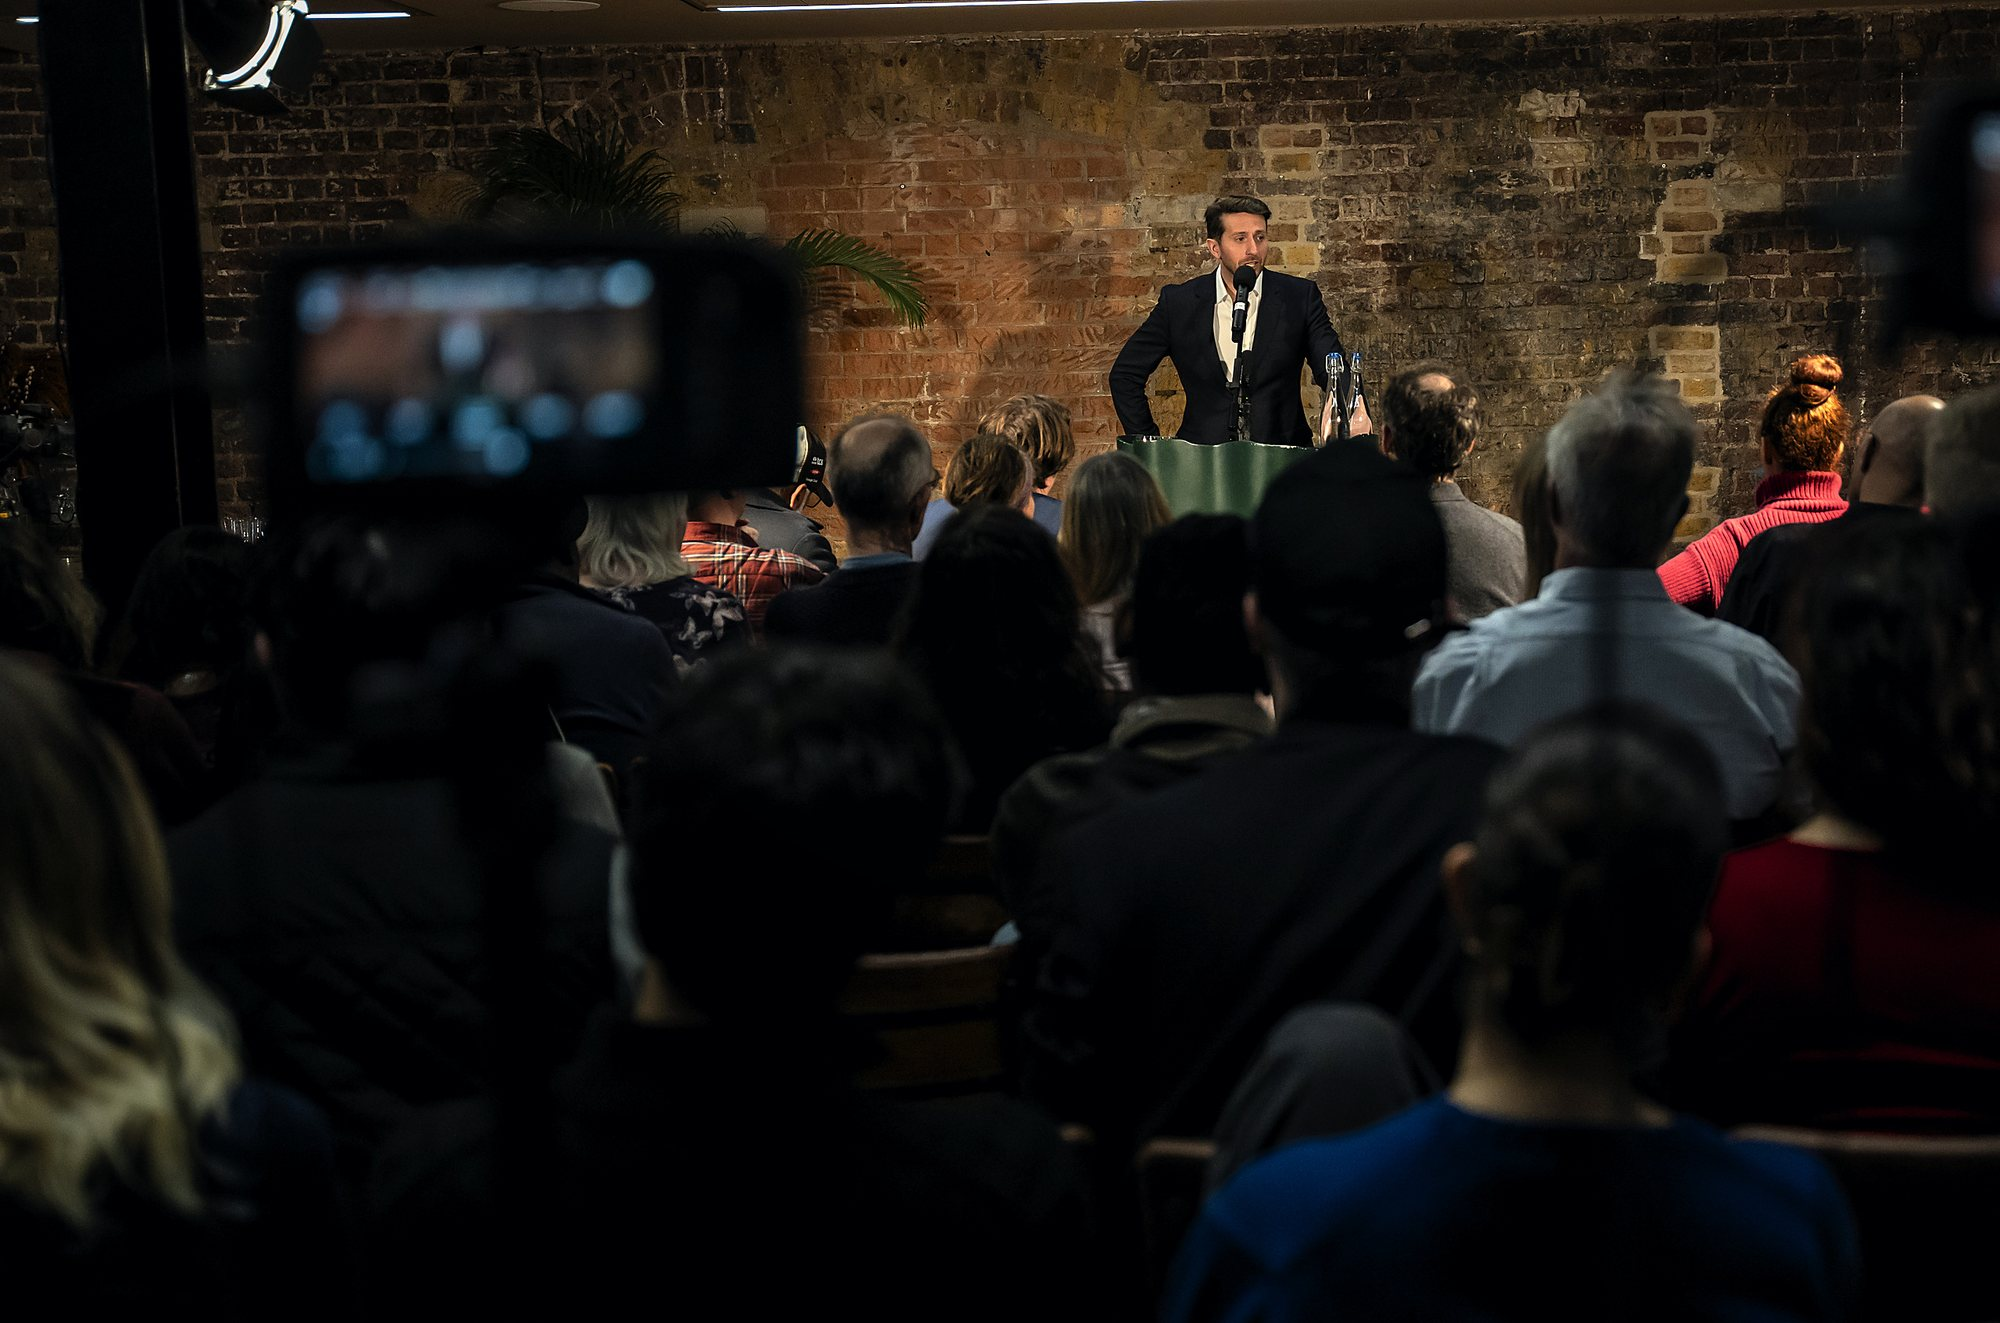
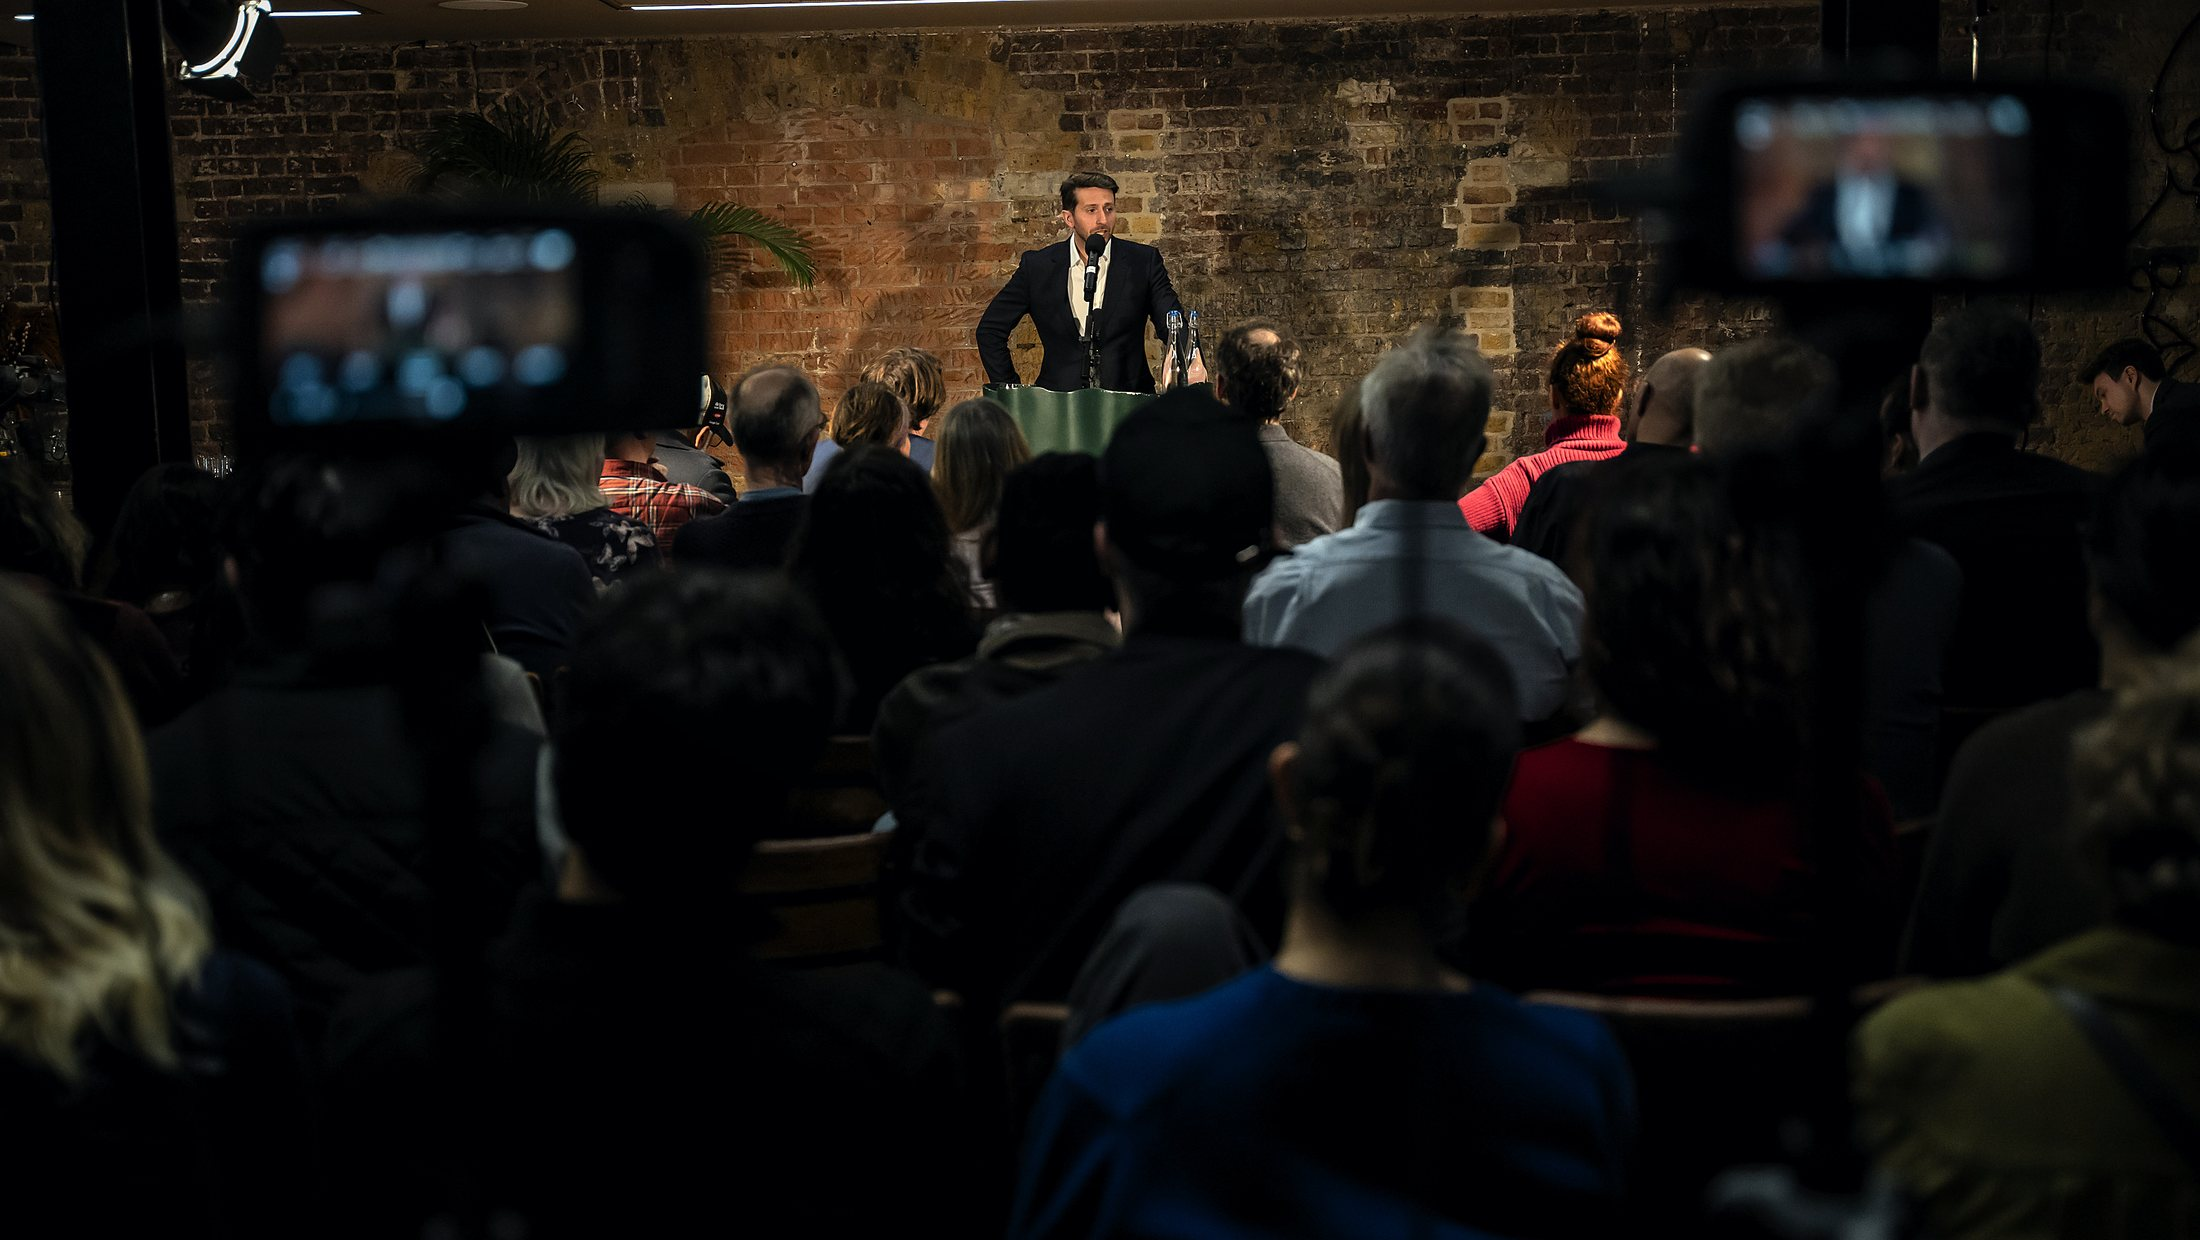
Testimonials run along the bottom, contact box drops to the foot, photographs pulls out
Testimonials: on wide screens the quotes leave the panel and run right to left in
a strip across the bottom shadow, at the same 36 pixels a second the column used,
paused on hover. The panel keeps only the title, the back button and the intro
line, so the laughing audience is left visible. Phones keep the vertical wall.

Contact: the box sits at the foot of the page, wider, on the same bottom line as
the newsletter box, so the interview photograph is no longer covered.

Photographs: full frame restored so the cameras in the foreground are in shot.

diff --git a/index.html b/index.html
@@ -55,6 +55,8 @@
   .phead{display:block;font-size:14.5px;color:#fff;line-height:1.5}
   .prow:hover .phead{color:var(--gold)}
   @media(max-width:720px){.presspanel{left:22px;right:22px;width:auto;max-width:none}}
+  /* contact: drop the box to the foot of the page so the interview photograph is not covered */
+  @media(min-width:901px){body.lp-contact .presspanel{top:auto;bottom:54px;transform:none;width:54%;max-width:720px;max-height:none}}
   .photo-note{position:absolute;right:16px;bottom:14px;z-index:5;font-size:10.5px;letter-spacing:.1em;text-transform:uppercase;color:rgba(255,255,255,.32)}
   /* header */
   header{position:absolute;top:0;left:0;right:0;z-index:10;display:flex;align-items:center;justify-content:space-between;padding:20px 56px;pointer-events:none;background:rgba(3,4,7,.94);border-bottom:1px solid rgba(255,255,255,.07)}
@@ -221,6 +223,16 @@
 @media(max-width:900px){.mjb-sqcol:nth-child(3){display:none}}
 @media(max-width:600px){.mjb-sq{gap:0}.mjb-sqcol:nth-child(2){display:none}.mjb-sqcol{max-width:none}}
 @media(prefers-reduced-motion:reduce){.mjb-sqcolinner{animation:none}}
+  /* wide screens: the quotes run along the bottom shadow instead of stacking up the page */
+  #tq-strip{position:fixed;left:0;right:0;bottom:56px;height:150px;z-index:8;overflow:hidden;display:flex;align-items:flex-end;pointer-events:none;-webkit-mask-image:linear-gradient(to right,transparent 0,#000 7%,#000 93%,transparent 100%);mask-image:linear-gradient(to right,transparent 0,#000 7%,#000 93%,transparent 100%)}
+  #tq-strip .tq-row{display:flex;gap:14px;will-change:transform;animation:tqRun linear infinite;pointer-events:auto}
+  #tq-strip:hover .tq-row{animation-play-state:paused}
+  @keyframes tqRun{from{transform:translateX(0)}to{transform:translateX(-50%)}}
+  .tq-card{flex:0 0 300px;background:rgba(255,255,255,.05);border:1px solid rgba(255,255,255,.10);border-radius:2px;padding:12px 14px;transition:background .25s ease,border-color .25s ease}
+  .tq-card:hover{background:rgba(255,255,255,.09);border-color:rgba(255,255,255,.2)}
+  .tq-card p{font-size:13.5px;line-height:1.55;color:rgba(255,255,255,.85);margin:0 0 6px;display:-webkit-box;-webkit-line-clamp:3;-webkit-box-orient:vertical;overflow:hidden}
+  .tq-name{font-size:11.5px;letter-spacing:.05em;color:var(--gold)}
+  @media(max-width:900px){#tq-strip{display:none}}
 nav a.nav-cta{background:#fff;color:#05070C;padding:10px 20px;border-radius:2px;font-weight:600;opacity:1;letter-spacing:.16em;box-shadow:none;transition:transform .2s ease,background .2s ease}
 nav a.nav-cta:hover{color:#05070C;opacity:1;transform:translateY(-2px);background:rgba(255,255,255,.86)}
 </style>
@@ -544,6 +556,7 @@ var PATH_TO_KIND={ '/biography':'bio', '/testimonials':'testimonials', '/photogr
 window.PATH_TO_KIND=PATH_TO_KIND;
 function openLeft(kind, fromRoute){
   var cfg=LEFT[kind]; if(!cfg) return;
+  try{ tqStripKill(); }catch(e){}
   try{ document.body.classList.add('lp-open');
        document.body.classList.toggle('lp-contact', kind==='contact'); }catch(e){}
   var panel=document.getElementById('leftpanel'), cov=document.querySelector('.covered'), body=document.getElementById('leftBody');
@@ -554,6 +567,7 @@ function openLeft(kind, fromRoute){
   if(!fromRoute){ try{ history.pushState({kind:kind}, '', PATHS[kind]||'/'); }catch(e){} }
 }
 function closeLeft(fromRoute){
+  try{ tqStripKill(); }catch(e){}
   try{ document.body.classList.remove('lp-open'); document.body.classList.remove('lp-contact'); }catch(e){}
   document.getElementById('leftpanel').classList.remove('open');
   document.querySelector('.covered').style.display='';
@@ -568,6 +582,23 @@ document.querySelectorAll('.modal').forEach(function(m){m.addEventListener('clic
 document.addEventListener('keydown',function(e){if(e.key==='Escape'){closeM();closeLeft();}});
 routeFromPath();
 
+function tqStripKill(){ var el=document.getElementById('tq-strip'); if(el) el.remove(); }
+function tqStripBuild(Q,esc2){
+  tqStripKill();
+  var pick=[],i;
+  for(i=0;i<Q.length && pick.length<60;i+=4) pick.push(Q[i]);
+  var cards='';
+  for(i=0;i<pick.length;i++)
+    cards+='<div class="tq-card"><p>'+esc2(pick[i].q)+'</p>'
+          +'<div class="tq-name">— '+esc2(pick[i].n)+'</div></div>';
+  var el=document.createElement('div');
+  el.id='tq-strip';
+  el.innerHTML='<div class="tq-row">'+cards+cards+'</div>';
+  document.body.appendChild(el);
+  /* match the pace of the vertical wall it replaces: about 36 pixels a second */
+  var row=el.firstChild, w=row.scrollWidth/2;
+  row.style.animationDuration=Math.max(60,Math.round(w/36.5))+'s';
+}
 function renderTestimonials(box){
   var Q=window.SUPPORTER_QUOTES||[];
   if(!Q.length){box.innerHTML='<p class="bio-p">Testimonials unavailable.</p>';return;}
@@ -576,6 +607,7 @@ function renderTestimonials(box){
   intro.textContent='19,085 people have funded Marcus\'s work since 2016 and they wrote over 5,000 messages of support.';
   box.appendChild(intro);
   var reduce=window.matchMedia&&window.matchMedia('(prefers-reduced-motion:reduce)').matches;
+  if(!reduce && window.innerWidth>900){ tqStripBuild(Q,esc2); return; }
   var NCOL=3,cols=[],c;for(c=0;c<NCOL;c++)cols.push('');
   for(var i=0;i<Q.length;i++){cols[i%NCOL]+='<div class="mjb-sqcard"><p>'+esc2(Q[i].q)+'</p><div class="mjb-sqname">\u2014 '+esc2(Q[i].n)+'</div></div>';}
   var wrap=document.createElement('div');
@@ -694,7 +726,7 @@ function mjbToggleNav(force){
     testimonials:{img:'photos/audience-laugh.jpg',size:'cover',pos:'50% 50%',mpos:'62% 50%'},
     press:{img:'photos/court-interview.jpg',size:'cover',pos:'36% 44%',mpos:'38% 40%'},
     contact:{img:'photos/channel4-interview.jpg',size:'cover',pos:'78% 35%',mpos:'80% 30%'},
-    photos:{img:'photos/room-from-the-back.jpg',size:'cover',pos:'50% 30%',mpos:'54% 28%'}
+    photos:{img:'photos/room-from-the-back.jpg',size:'cover',pos:'50% 46%',mpos:'54% 44%'}
   };
   function apply(el,sl){ var mob=window.innerWidth<=900; el.style.backgroundColor='#05070C'; el.style.backgroundImage="url('"+sl.img+"')"; el.style.backgroundRepeat='no-repeat'; el.style.backgroundSize=mob?'cover':sl.size; el.style.backgroundPosition=mob?sl.mpos:sl.pos; }
   var layers=[A,B], active=0, curKind='home';
